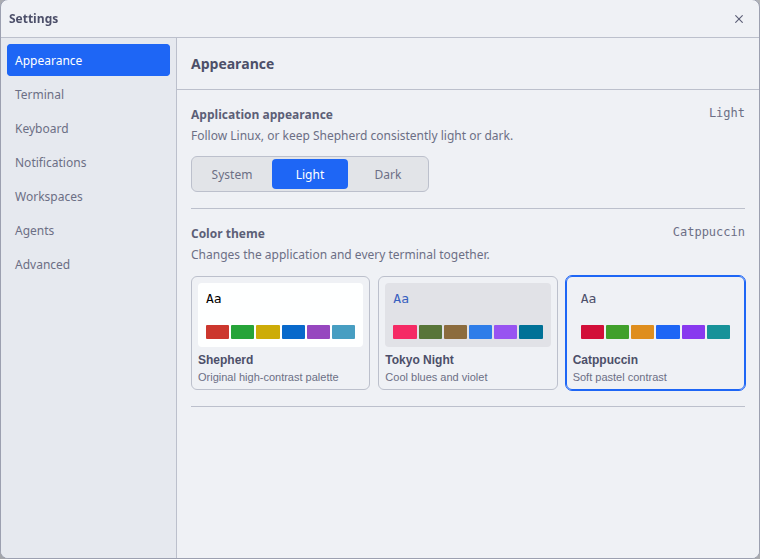
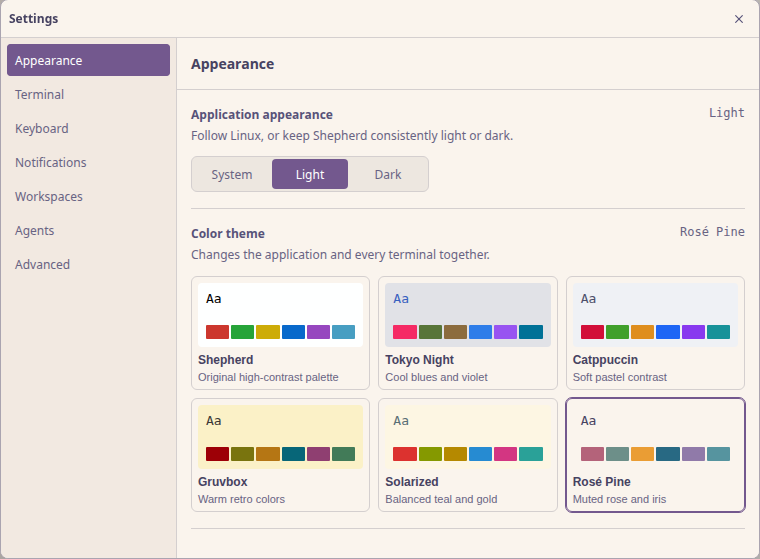
docs: describe expanded themes and settings entry

diff --git a/docs/APPEARANCE.md b/docs/APPEARANCE.md
@@ -6,8 +6,9 @@ surfaces and every open terminal without restarting shells.
 
 ## Application appearance
 
-Open Settings with `Ctrl+Shift+,` and choose **Appearance**. Three modes are
-available:
+Open Settings from the labeled button at the bottom of the sidebar, the gear
+button on the collapsed sidebar, or `Ctrl+Shift+,`. Choose **Appearance**. Three
+modes are available:
 
 - **System** follows the desktop's resolved light or dark appearance.
 - **Light** keeps Shepherd chrome light.
@@ -26,6 +27,9 @@ Choose a color theme in Settings → Appearance:
   appearance and `#feffff` in light.
 - **Tokyo Night** uses cool blue and violet colors, with a lighter daytime variant.
 - **Catppuccin** uses soft pastel colors, with a light variant.
+- **Gruvbox** uses warm retro colors, with a cream-colored light variant.
+- **Solarized** pairs teal and gold accents with dark and light backgrounds.
+- **Rosé Pine** pairs muted rose and iris accents with a Dawn-like light variant.
 
 Each option previews its terminal background, text, and ANSI accents. A preset
 changes both CSS chrome tokens and the xterm palette, including foreground,
@@ -33,7 +37,7 @@ background, cursor, selection, and ANSI colors. The appearance mode still
 controls which dark or light variant is used. Existing terminals update in place;
 new terminals start with the saved theme.
 
-![Theme picker with Catppuccin selected in light appearance](images/theme-presets-light.png)
+![Theme picker showing six presets with Rosé Pine selected in light appearance](images/theme-presets-light.png)
 
 ## Semantic token contract
 
@@ -72,7 +76,7 @@ interface RendererPreferences {
   version: 3
   terminalFontSize: number
   appearanceMode: 'system' | 'light' | 'dark'
-  themePresetId: 'system' | 'tokyo-night' | 'catppuccin'
+  themePresetId: 'system' | 'tokyo-night' | 'catppuccin' | 'gruvbox' | 'solarized' | 'rose-pine'
 }
 ```
 

diff --git a/README.md b/README.md
@@ -224,6 +224,9 @@ Workspaces can also be renamed from their context menu, by double-clicking the
 name, or with the pencil action. Saving an empty name returns to the live project
 name.
 
+Settings is also available from the labeled sidebar footer or the gear button
+when the sidebar is collapsed.
+
 ## Agent-Aware Automation
 
 Every Shepherd terminal receives these environment variables:
